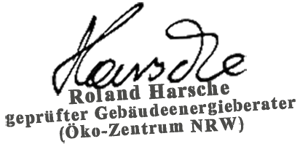
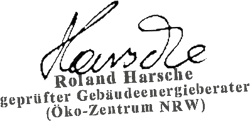
Updated image and set signature to the middle #92

Changed region(s): [[0.0, 0.0, 1.0, 1.0]]

diff --git a/public/app/plugins/wp-energieausweis-online/inc/WPENON/Model/EnergieausweisPDF.php b/public/app/plugins/wp-energieausweis-online/inc/WPENON/Model/EnergieausweisPDF.php
@@ -354,9 +354,9 @@ class EnergieausweisPDF extends \WPENON\Util\UFPDI {
 
 						if ( file_exists( WPENON_DATA_PATH . '/pdf-signature.png' ) ) {
 							if ( substr( $this->wpenon_type, 1, 1 ) == 'n' ) {
-								$this->Image( WPENON_DATA_PATH . '/pdf-signature.png', 137, 249, 45 );
+								$this->Image( WPENON_DATA_PATH . '/pdf-signature.png', 150, 249, 45 );
 							} else {
-								$this->Image( WPENON_DATA_PATH . '/pdf-signature.png', 137, 253, 45 );
+								$this->Image( WPENON_DATA_PATH . '/pdf-signature.png', 150, 253, 45 );
 							}
 						}
 					}
